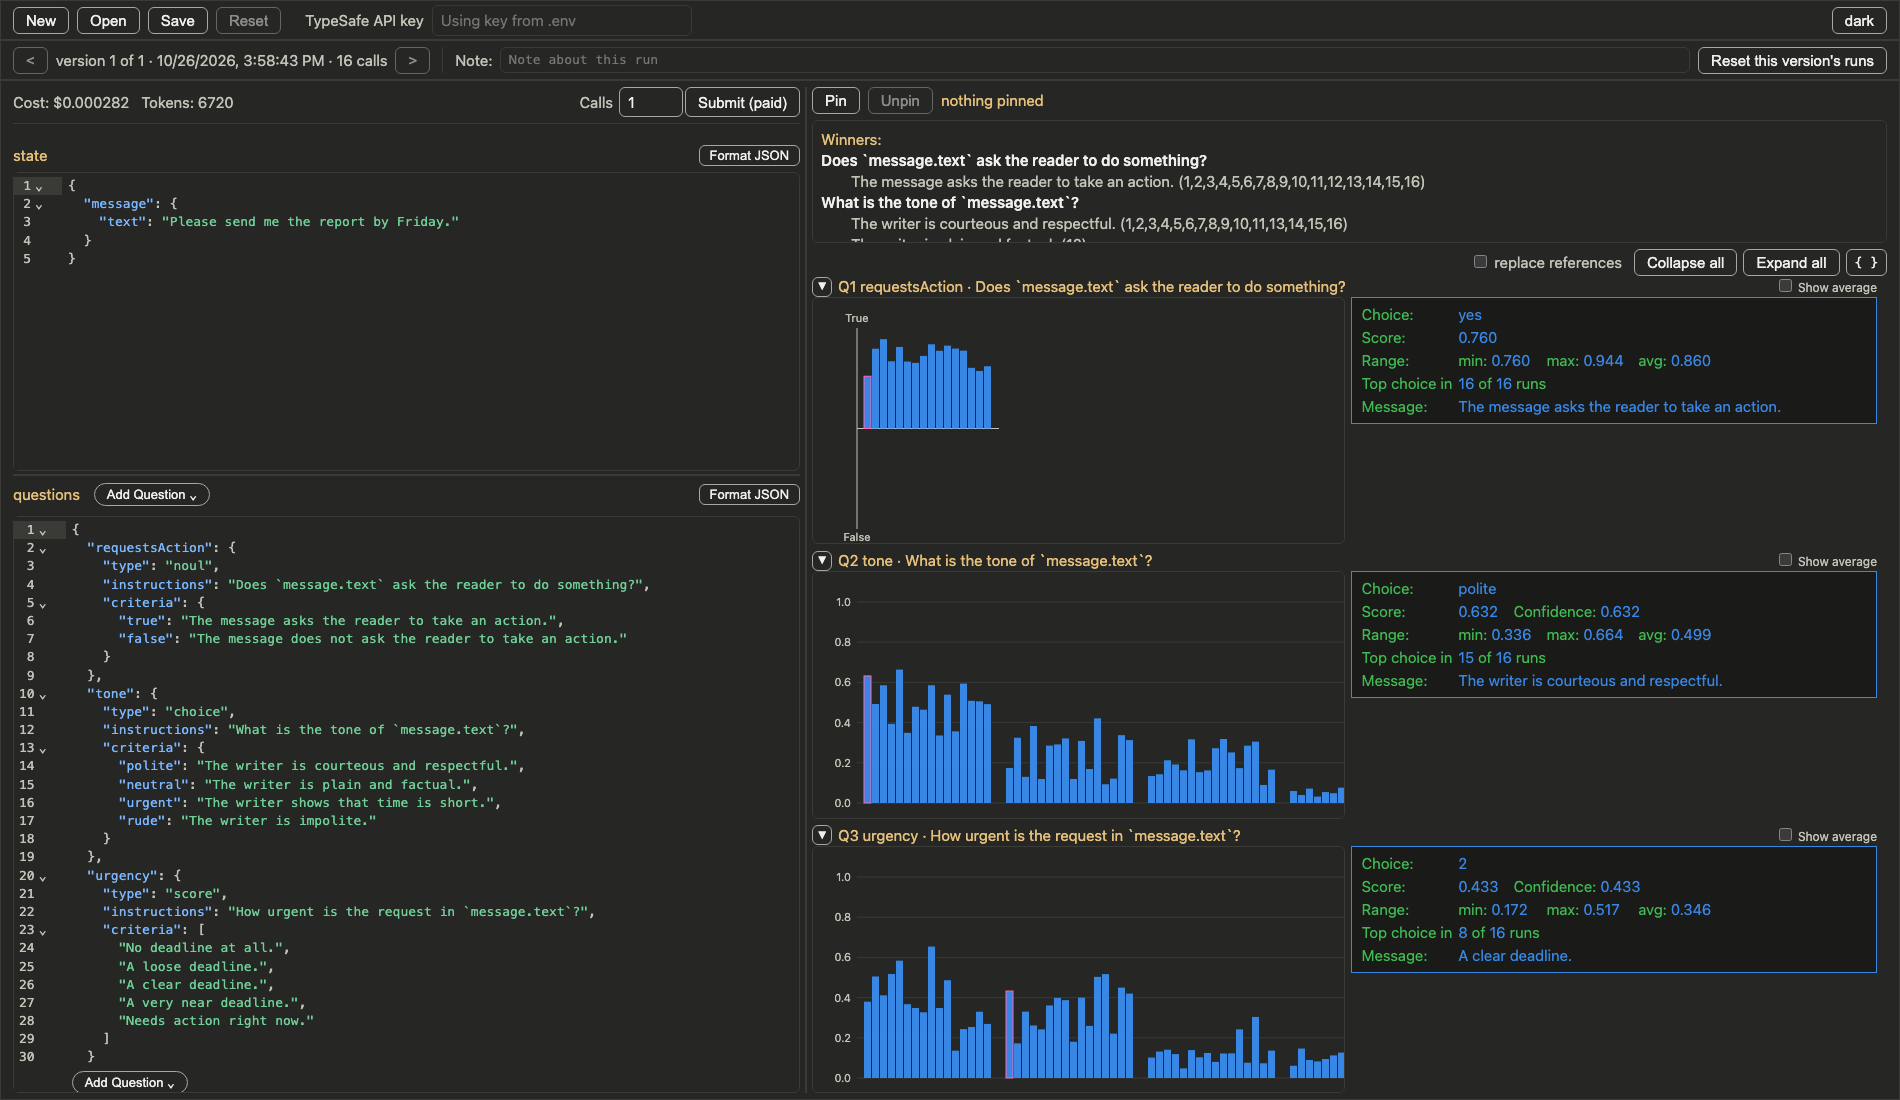
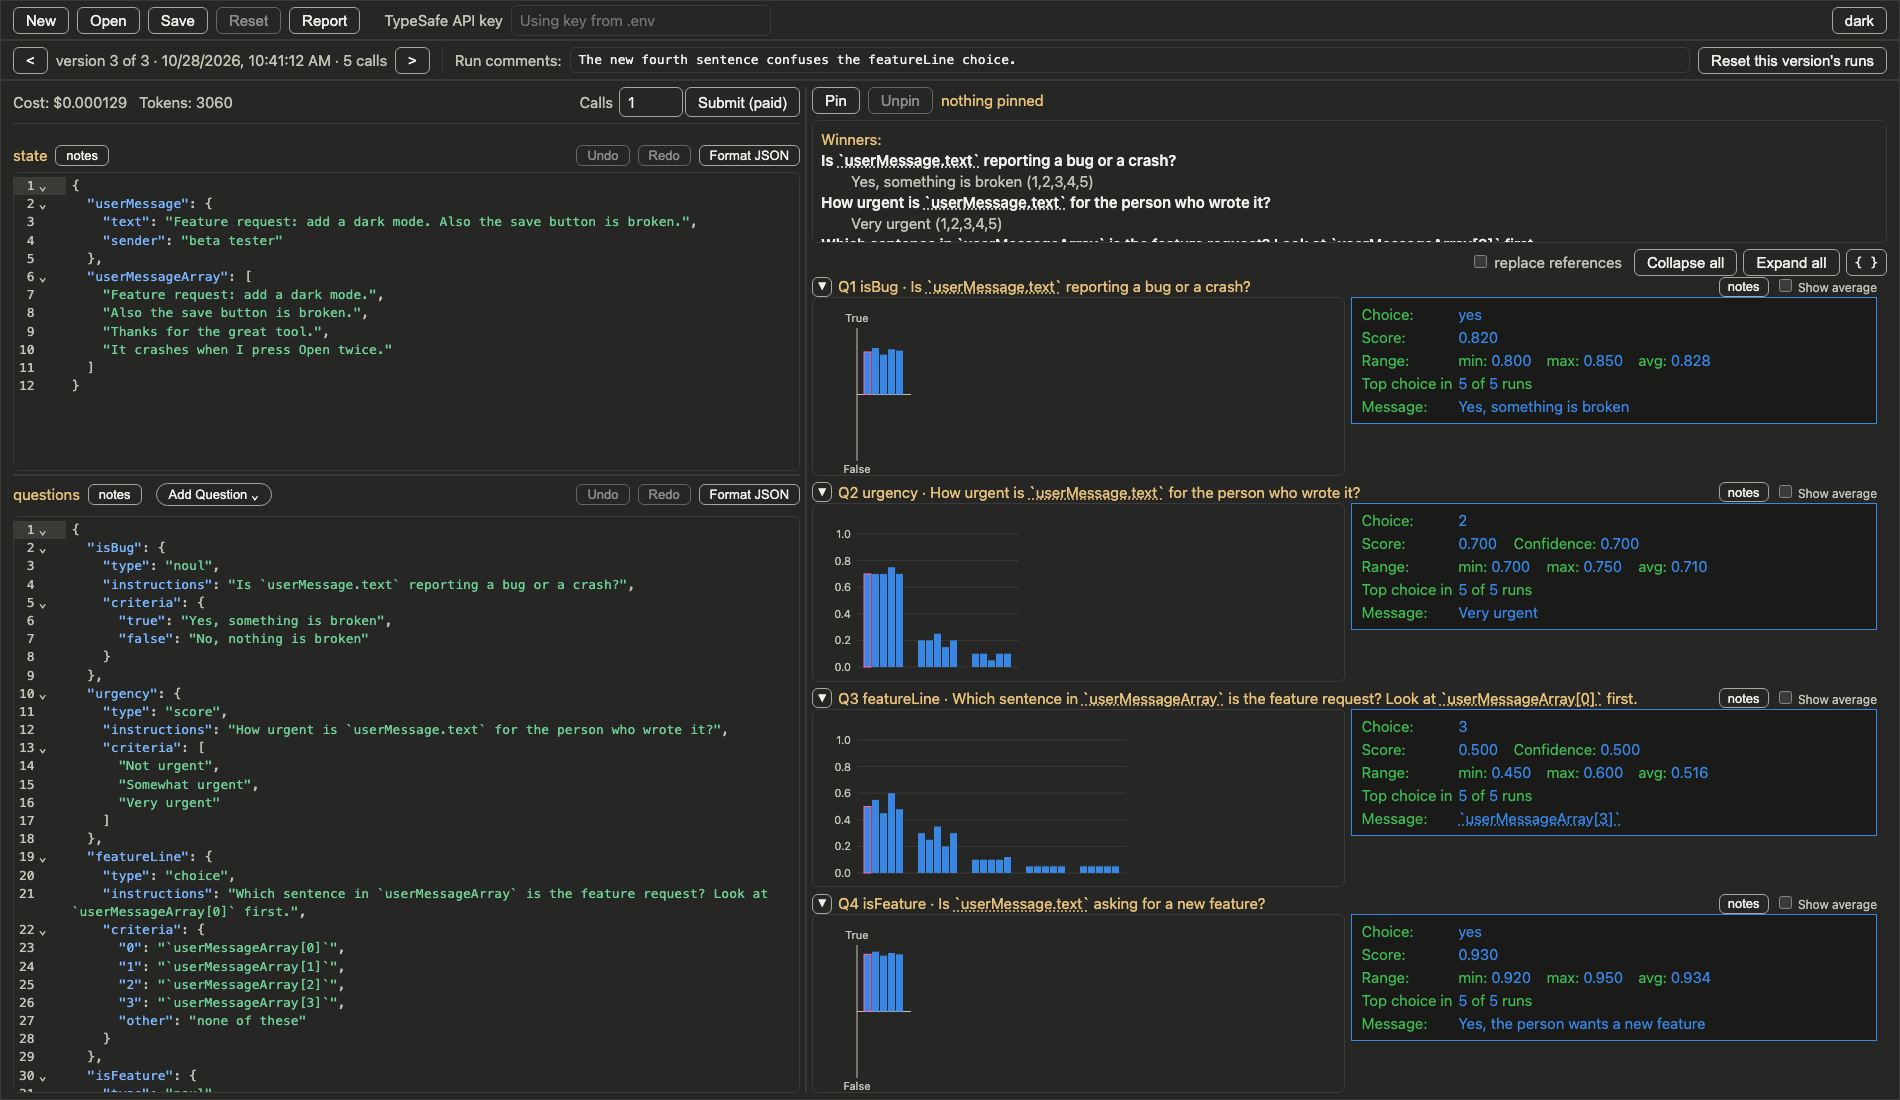
Update the README with today's features and screenshots
Claude-Session: https://claude.ai/code/session_01TxioBPb3UppiEVqcaNSVBZ

diff --git a/README.md b/README.md
@@ -2,7 +2,7 @@
 
 A local web page for trying TypeSafe questions.
 
-![The playground page with graphs](docs/playground-graphs.png)
+![The playground page with graphs, Winners, notes buttons, and the Report button](docs/playground-graphs.png)
 
 ## Run it
 
@@ -32,7 +32,7 @@ Without a key, the Submit button is disabled. `.env` is in `playground/.gitignor
 
 ## Data on disk
 
-- `playground/results/playground-history.json` holds every version: its state, its questions, the output of each run, and its note. The server makes this file when it first starts. It writes the file again after each Submit, New, Open, note change, and **Reset this version's runs**. `results/` is in `playground/.gitignore`.
+- `playground/results/playground-history.json` holds every version: its state, its questions, the output of each run, and its notes. The server makes this file when it first starts. It writes the file again after each Submit, New, Open, note change, and **Reset this version's runs**. `results/` is in `playground/.gitignore`.
 - **Save** writes the same versions to a JSON file that you choose. The default name is `playground-versions.json`.
 - **Open** reads a file like that and replaces the history file with it.
 - **New** replaces the history file with one blank version.
@@ -76,3 +76,50 @@ In the state editor or the questions editor, type a backtick (`` ` ``). A list s
 - Use the arrow keys to select a name, then press Tab or Enter. The editor adds the name and a closing backtick.
 - After a key name and a dot, for example `` `message. ``, the list shows only the keys inside that object.
 - Use this to write references such as `` `message.text` `` in question instructions.
+
+## Back-ticked name checks
+
+A back-ticked name that no editor defines gets a red squiggle. The message says the name is not defined in either JSON editor.
+
+- The squiggles update when the other editor changes. For example, rename a key in the state editor. The old name gets a squiggle in the questions editor.
+- To point at an item in an array, write the index in square brackets, for example `` `userMessageArray[0]` ``. A name like `` `userMessageArray.0` `` is not an index, so it gets a squiggle.
+
+![A red squiggle under a name that the state editor no longer defines](docs/undefined-name-squiggle.png)
+
+## Back-ticked name tooltips
+
+Put the pointer on a back-ticked name. A box shows the value of that name. The value comes from the state or the questions.
+
+- This works in the state editor, the questions editor, the Winners box, the graph titles, and the Message line of the InfoBox.
+- Only one box shows at a time.
+- The box does not show when the state or the questions have a JSON error.
+
+![The tooltip box on a back-ticked name in the questions editor](docs/backtick-tooltip.png)
+
+### Replace references
+
+The **replace references** box above the graphs replaces each back-ticked name with its value. This changes the Winners box, the graph titles, and the Message line of the InfoBox. It also reads names with an index, such as `` `userMessageArray[0]` ``.
+
+## Notes
+
+Notes help you remember why you made a change. Each note belongs to one version.
+
+- **Run comments** is the box under the version label. It is for the runs of the version. It is off until the version has a run. It is also off while the editors show edits that you did not run.
+- The **notes** button next to **state** and next to **questions** opens a notes dialog. Press OK to keep the text.
+- Each graph has its own **notes** button for that question's result. A result note needs a run.
+- A state note or a questions note on unsaved edits waits. The page keeps it until you press Save or Submit. Then it goes into the new version.
+- When you do not change the state, the new version gets the state note of the version before it. The questions note works the same way.
+
+![The notes dialog](docs/notes-dialog.png)
+
+## Report
+
+The **Report** button at the top opens a report of every version that has notes or runs. The report is markdown. For each version it shows:
+
+- **Changes**: what changed in the state and in the questions since the version before it.
+- The state notes, the questions notes, and the run comments. A state note or a questions note shows only in the version where it is new.
+- **Results**: the winner of each question, its average, and the result note. A line ends with ▲ or ▼ and the size of the change in the average, when an earlier version has a run for that question. If the winner changed, the line ends with "winner was" and the old winner. If the average did not change, it ends with "no change".
+
+**Copy** puts the markdown on the clipboard. **Download .md** saves it as `<open file>-notes.md`. For example, if the open file is `playground-versions.json`, the report file is `playground-versions-notes.md`. Without an open file, the name is `notes.md`.
+
+![The Report with Changes, notes, and results](docs/report.png)
